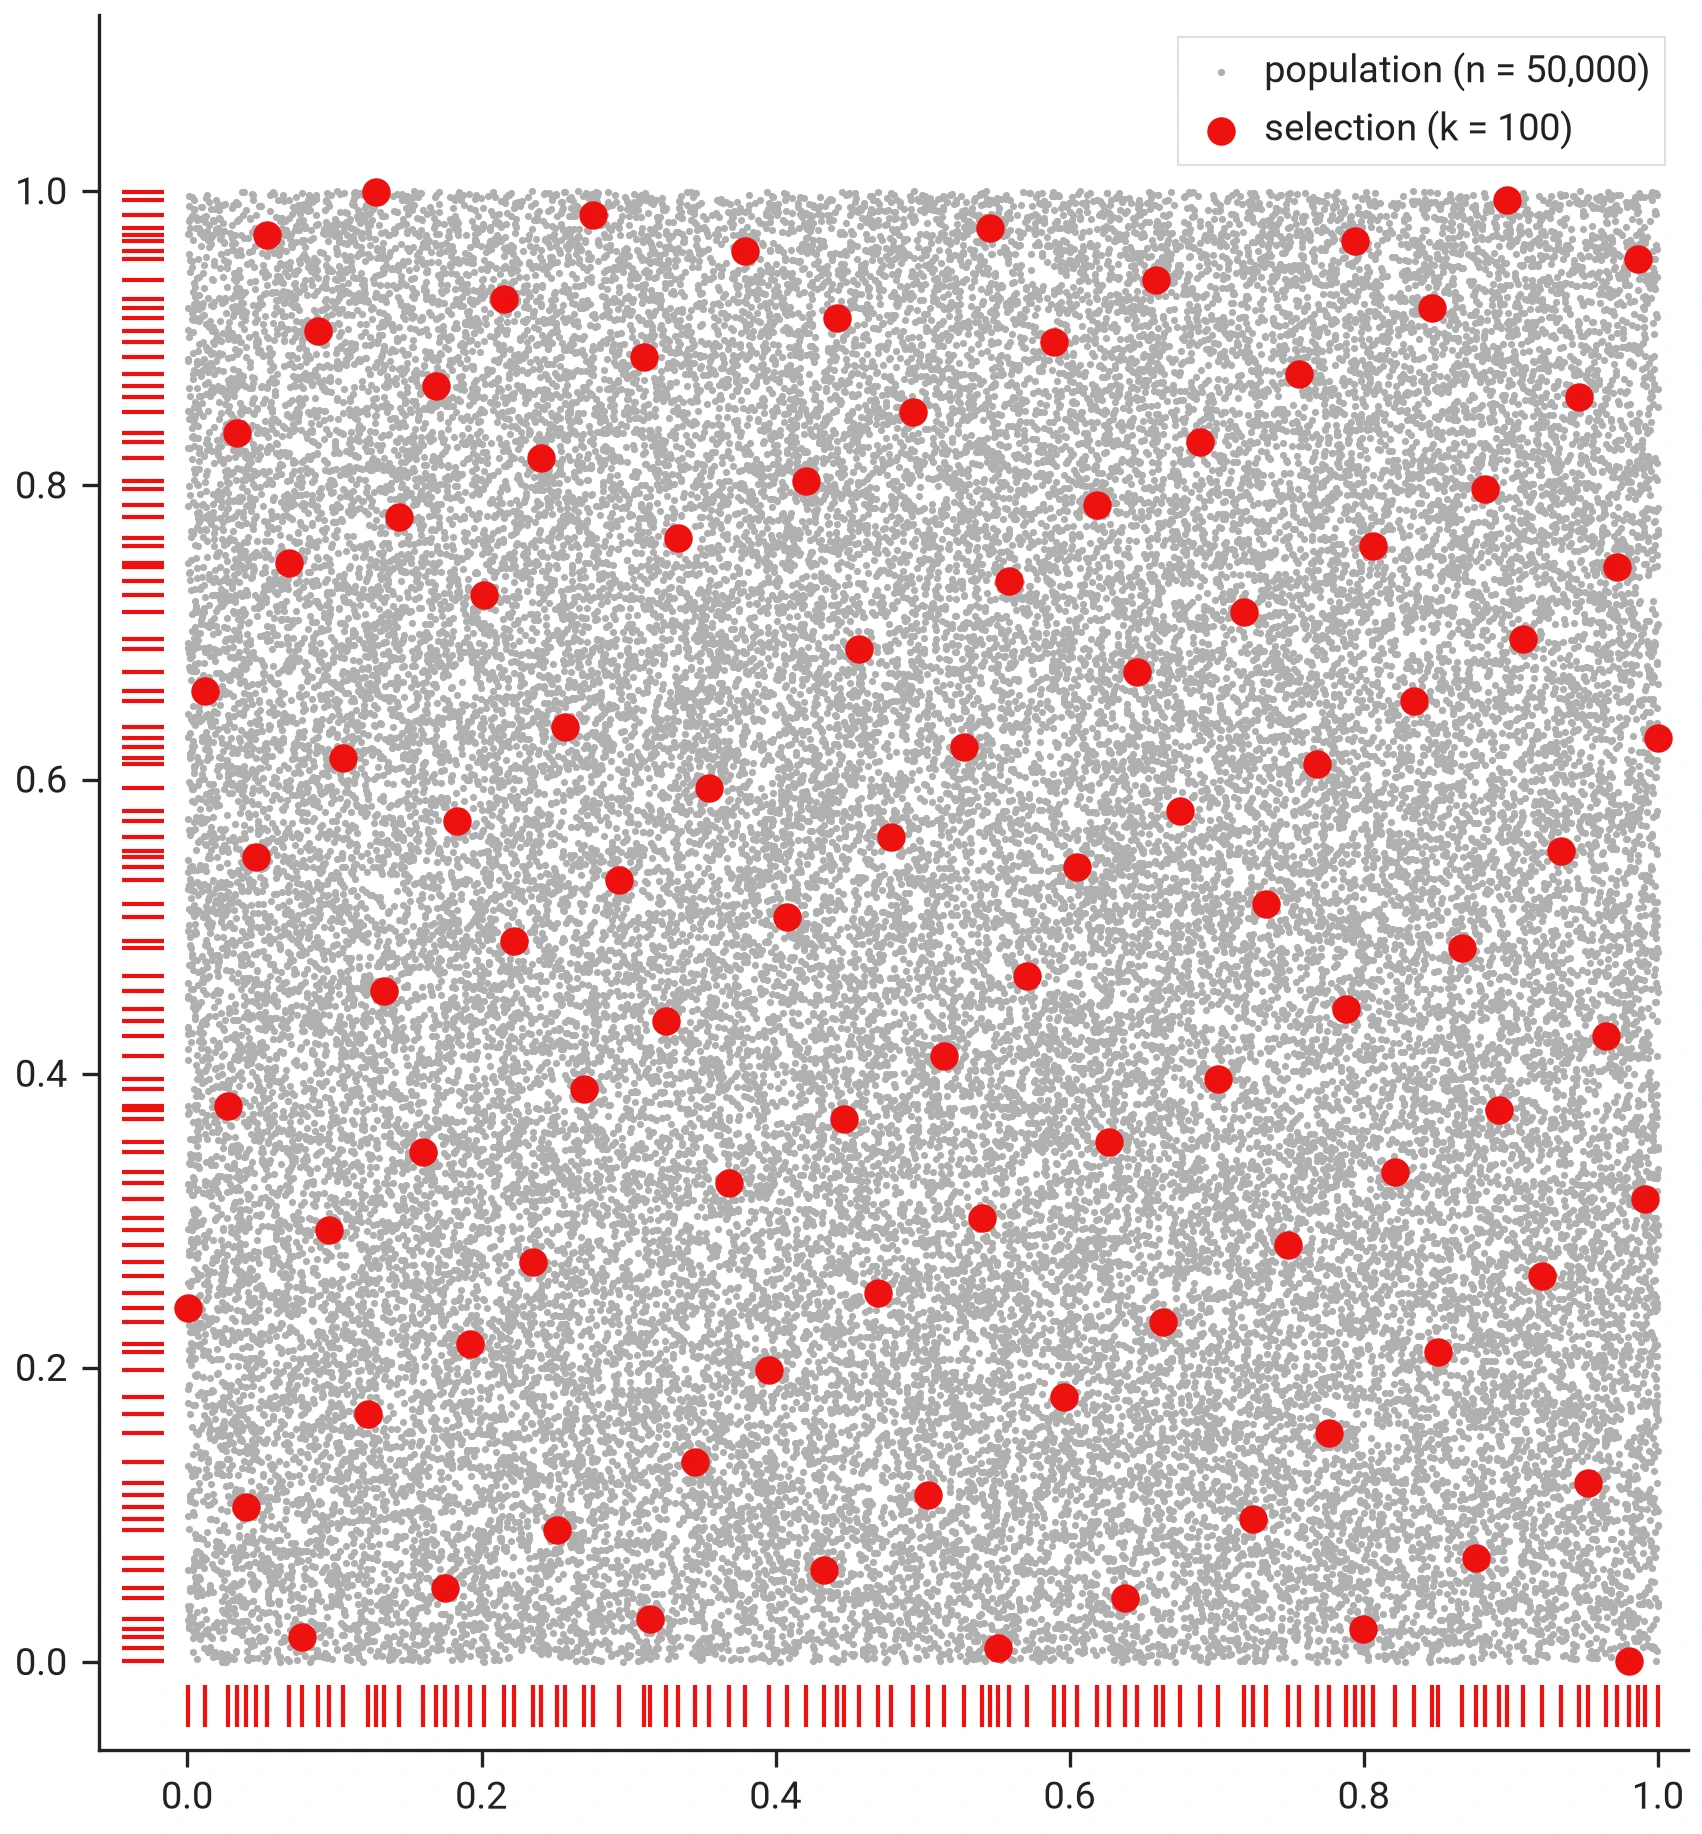
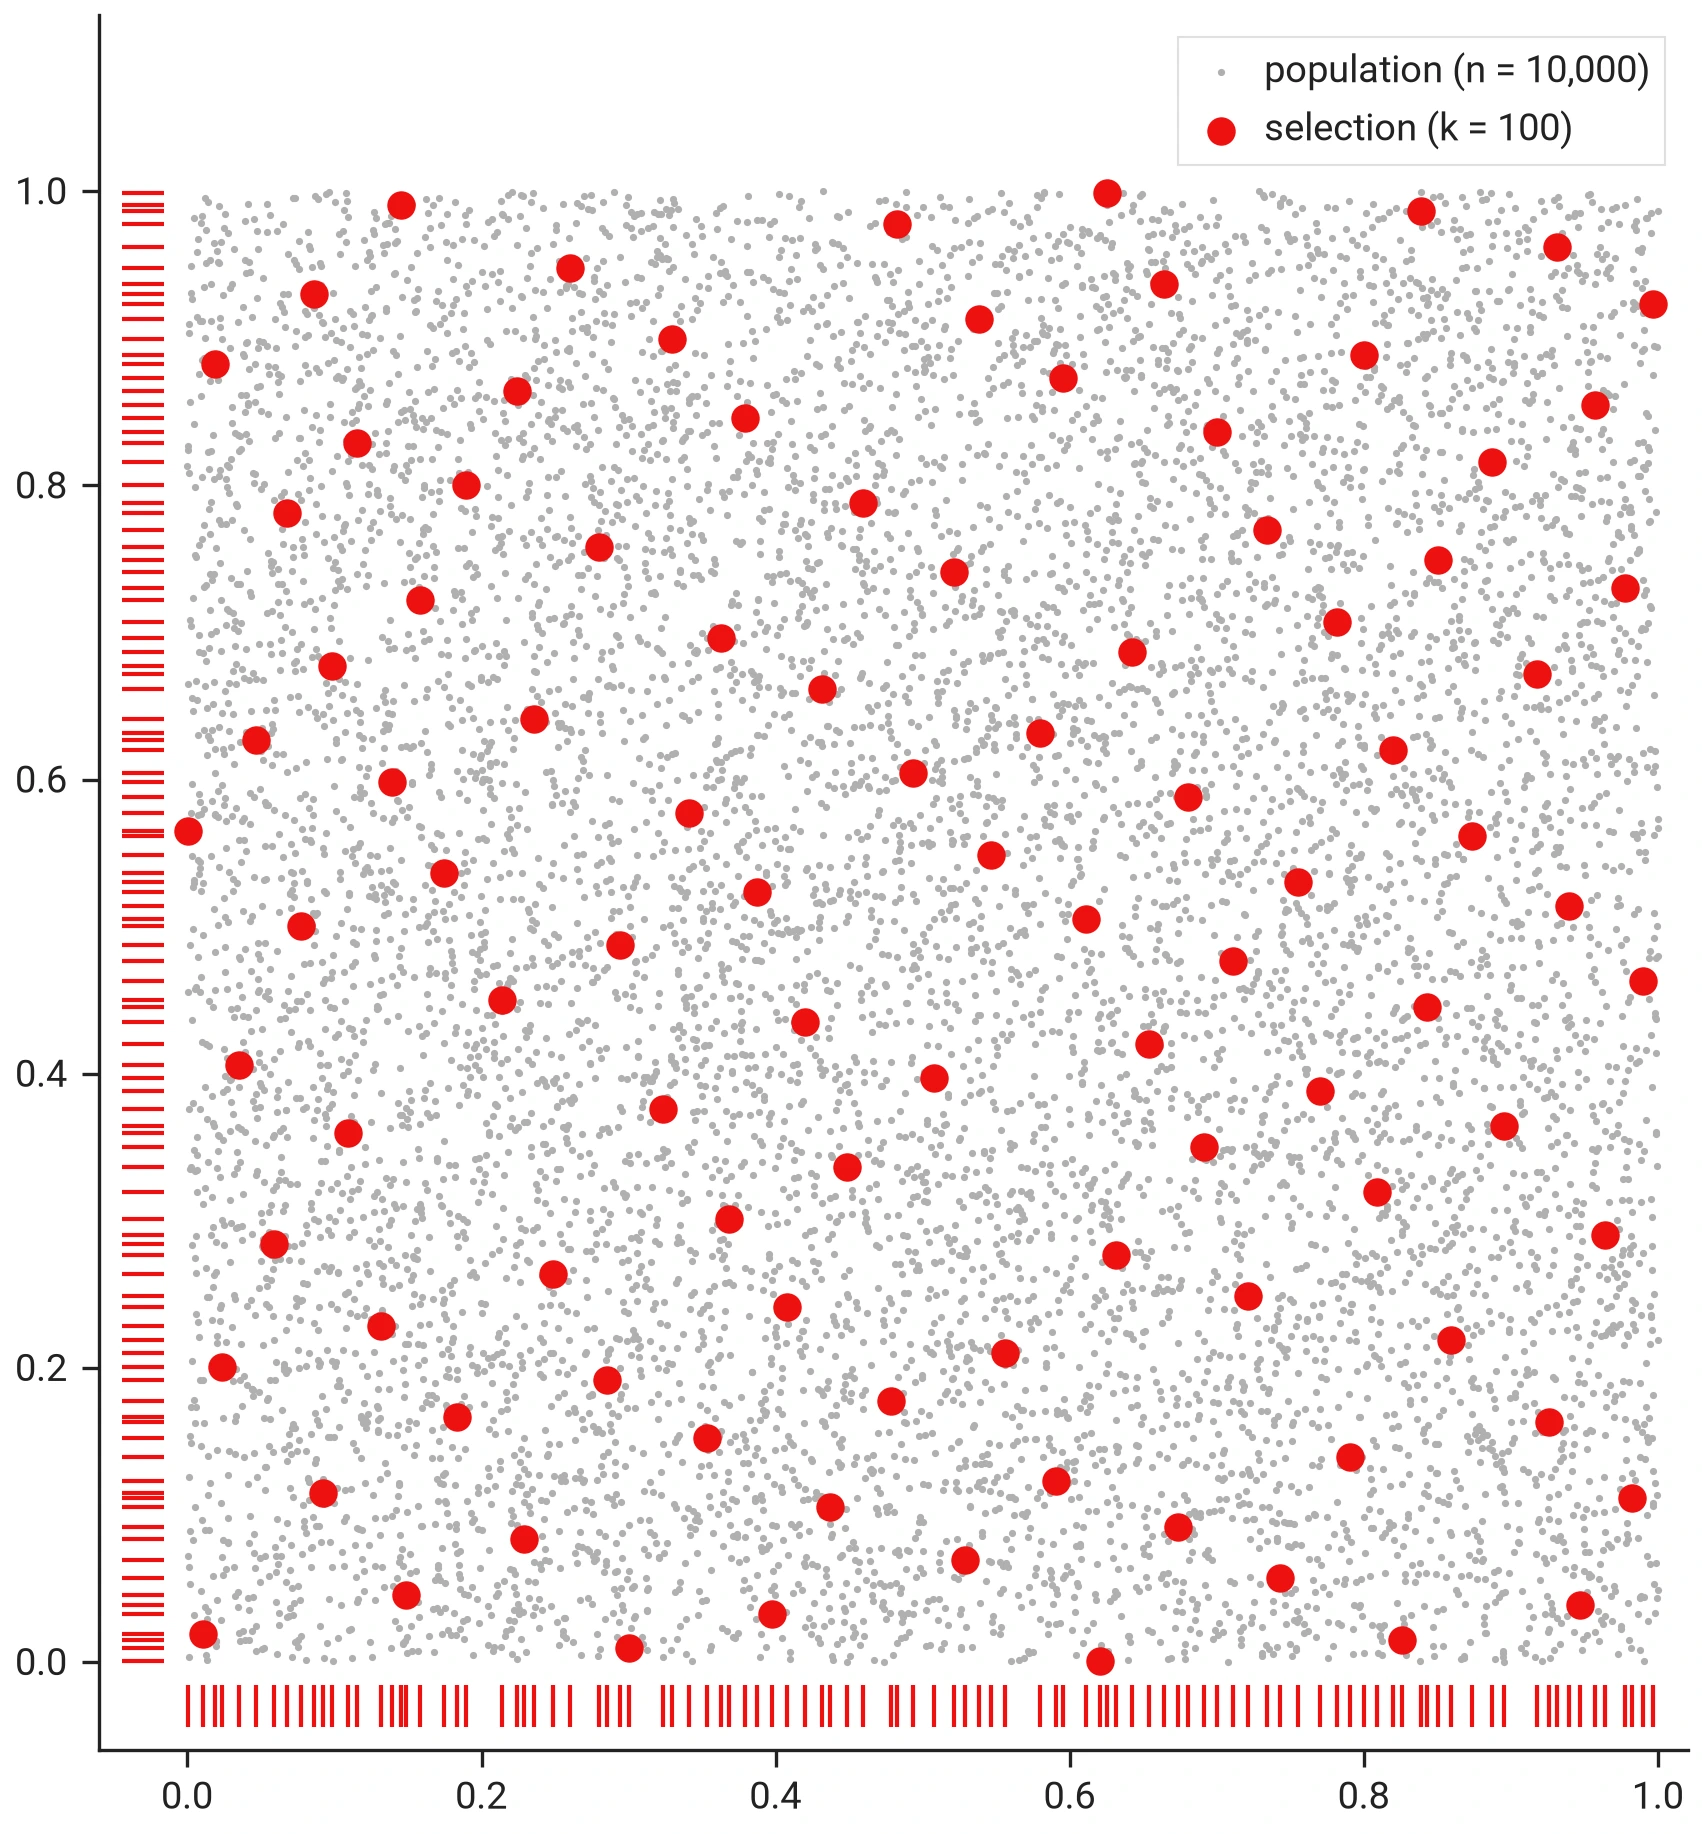
docs: build the geomean-distance guide's example population from evenly spaced values
The example population is the n evenly spaced values in [0, 1] as x paired with a random permutation as y, at n = 10,000, and the selection maximizes minimum separation; the paragraph introducing the figure follows.

diff --git a/scripts/generate_guide_images.py b/scripts/generate_guide_images.py
@@ -210,19 +210,24 @@ def render_geomean_distance_levels(name: str, k: int) -> None:
 
 
 def render_geomean_distance_example(name: str, n: int, k: int, budget_sec: float, n_workers: int, seed: int) -> None:
-    """Render one solved selection: geomean separation with the geometric-mean distance on a uniform unit square.
+    """Render one solved selection: min separation with the geometric-mean distance on a unit-square population.
+
+    The population is the n evenly spaced values in [0, 1] as x, paired with a random permutation of
+    the same values as y: uniform in the square, with every marginal spaced 1 / (n - 1) apart by
+    construction, so no two points share a coordinate.
 
     Args:
         name: Image file stem under `IMAGES_DIR`.
-        seed: Seeds both the population sample and the solver.
+        seed: Seeds both the pairing and the solver.
     """
     rng = np.random.default_rng(seed)
-    vectors = rng.random((n, 2)).astype(np.float32)
+    values = np.linspace(0.0, 1.0, n, dtype=np.float32)
+    vectors = np.column_stack((values, rng.permutation(values)))
     problem = MaxDivProblem.new(
         vectors=vectors,
         k=k,
         distance_metric=DistanceMetric.geometric_mean(),
-        diversity_metric=DiversityMetric.GEOMEAN_SEPARATION,
+        diversity_metric=DiversityMetric.MIN_SEPARATION,
     )
     solver = (
         ParallelMaxDivSolverBuilder(problem)
@@ -291,7 +296,7 @@ def main() -> None:
         position_marks=(-0.25, 0.0, 1.0),
     )
     render_geomean_distance_levels("geomean_distance_levels", k=25)
-    render_geomean_distance_example("geomean_distance_example", n=50_000, k=100, budget_sec=60.0, n_workers=16, seed=42)
+    render_geomean_distance_example("geomean_distance_example", n=10_000, k=100, budget_sec=60.0, n_workers=16, seed=42)
 
 
 if __name__ == "__main__":

diff --git a/docs/guides/geomean_distance.md b/docs/guides/geomean_distance.md
@@ -43,8 +43,8 @@ So a selection whose smallest geometric-mean distance is about $1/\sqrt{k}$ keep
 
 ## III. Example
 
-Here $k = 100$ points are selected from a population of $n = 50{,}000$ sampled uniformly and independently per coordinate in the unit square, under geometric-mean separation with the geometric-mean distance, on 16 workers with a 60 s end-to-end budget:
+Here $k = 100$ points are selected from a population of $n = 10{,}000$ in the unit square: the $n$ evenly spaced values in $[0, 1]$ as $x$, paired with a random permutation of the same values as $y$. The population is uniform in the square, and by construction no two points share a coordinate: every marginal is spaced $1/(n-1)$ apart. The selection runs under minimum separation with the geometric-mean distance, on 16 workers with a 60 s end-to-end budget:
 
-![Fifty thousand gray points in the unit square with the hundred selected ones in red, and the selection's x and y values as rug marks along the bottom and left edges](./images/geomean_distance_example.webp)
+![Ten thousand gray points in the unit square with the hundred selected ones in red, and the selection's x and y values as rug marks along the bottom and left edges](./images/geomean_distance_example.webp)
 
 The red points spread over the square, and the rug marks along the two edges show the marginals: the hundred $x$ values and the hundred $y$ values each cover $[0, 1]$ without gaps or clusters.
